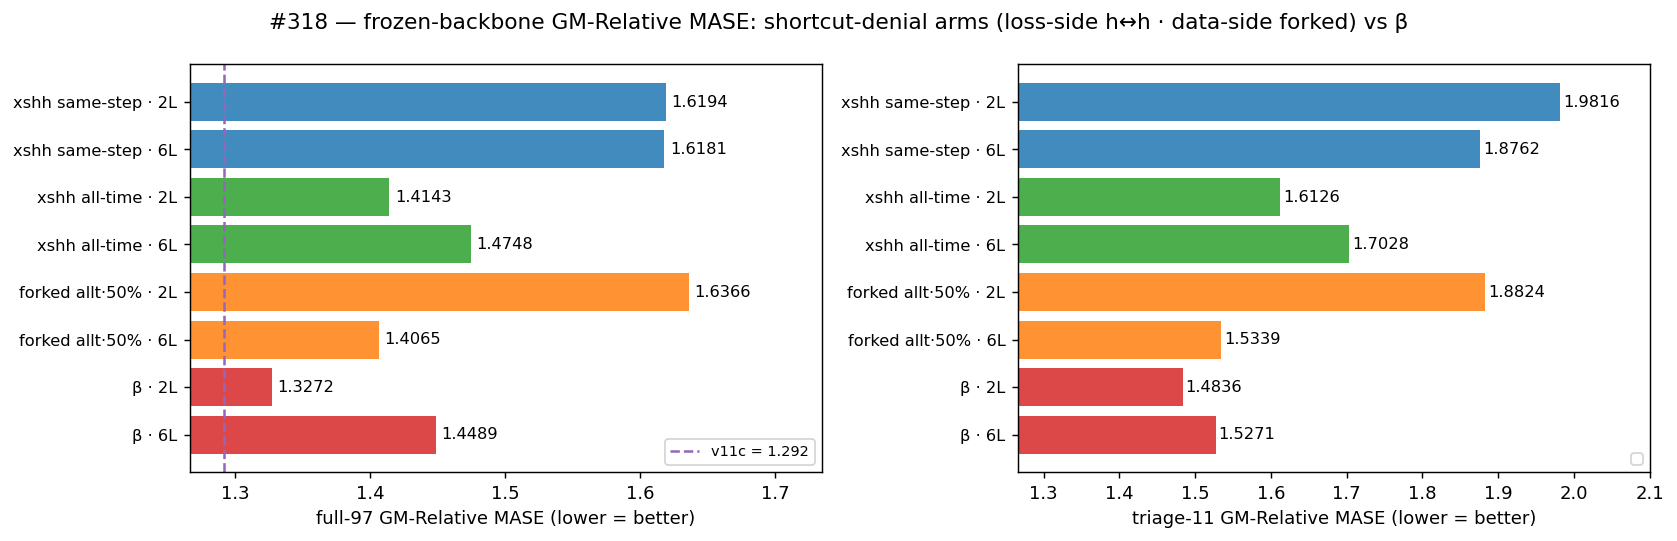
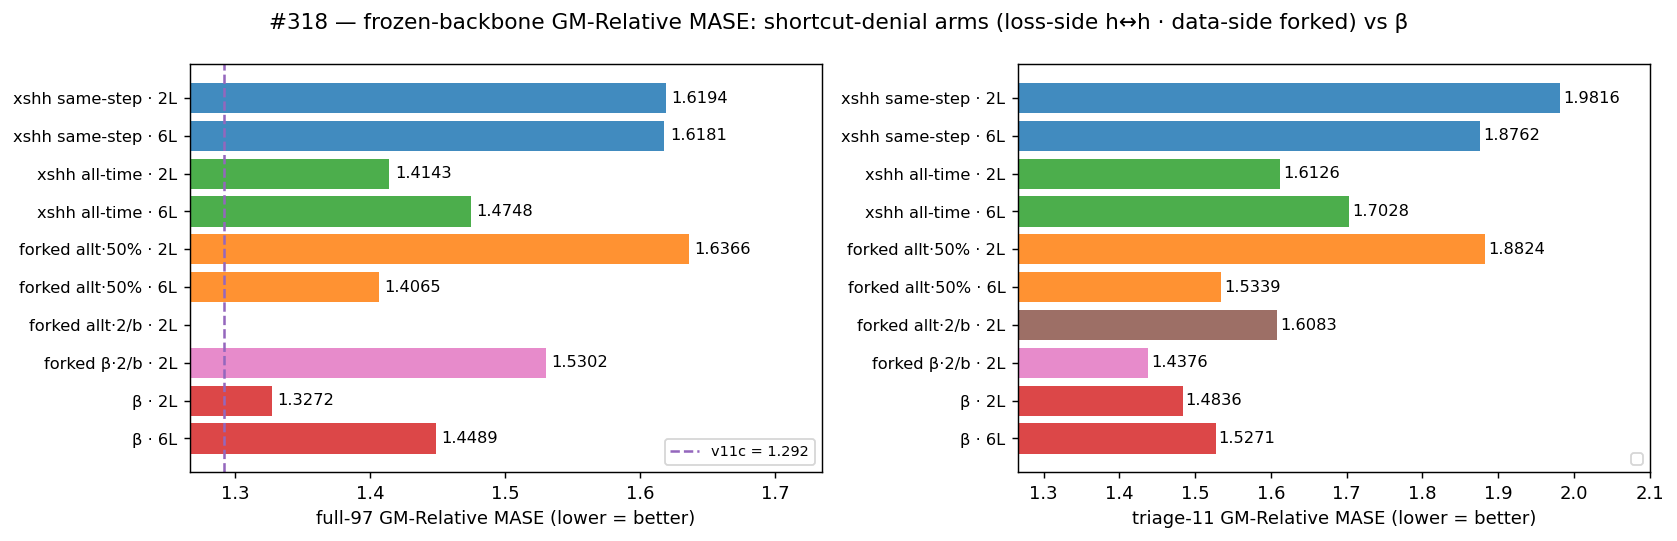
results(#318): per-head scoreboard rows; record forked β·2/b 2L + forked allt·2/b 2L-triage
Scoreboard now has a 2L row and a 6L row for every arm (both heads evaluated).
Landed: forked β·2/b 2L = 1.5302 / 1.4376 (+15.3% vs β — the β+fork hurts at the
2L head); forked allt·2/b 2L triage 1.6083 (full eval running). Plots refreshed:
forked β·2/b 2L lands in gm_summary + best-head radar.

diff --git a/experiments/2026-05-23_xseries_hh/RESULTS.md b/experiments/2026-05-23_xseries_hh/RESULTS.md
@@ -119,8 +119,10 @@ seasonal-naive 1.0.
 | loss-side · all-time | 6L | 1.4748 | 1.7028 | +11.1% |
 | data-side · forked allt·50% | 2L | 1.6366 | 1.8824 | +23.3% |
 | data-side · forked allt·50% | 6L | **1.4065** | 1.5339 | +6.0% |
-| data-side · forked allt·2/b | 2L · 6L | *in flight* | *in flight* | — |
-| data-side · forked β·2/b | 2L · 6L | *in flight* | *in flight* | — |
+| data-side · forked allt·2/b | 2L | *running* | 1.6083 | — |
+| data-side · forked allt·2/b | 6L | *in flight* | *in flight* | — |
+| data-side · forked β·2/b | 2L | 1.5302 | 1.4376 | +15.3% |
+| data-side · forked β·2/b | 6L | *in flight* | *in flight* | — |
 | v11c (reference) | 2L | 1.292 | — | −2.7% |
 
 *GM-Relative MASE, lower = better; Δ vs the best arm β·2L (1.3272).*
